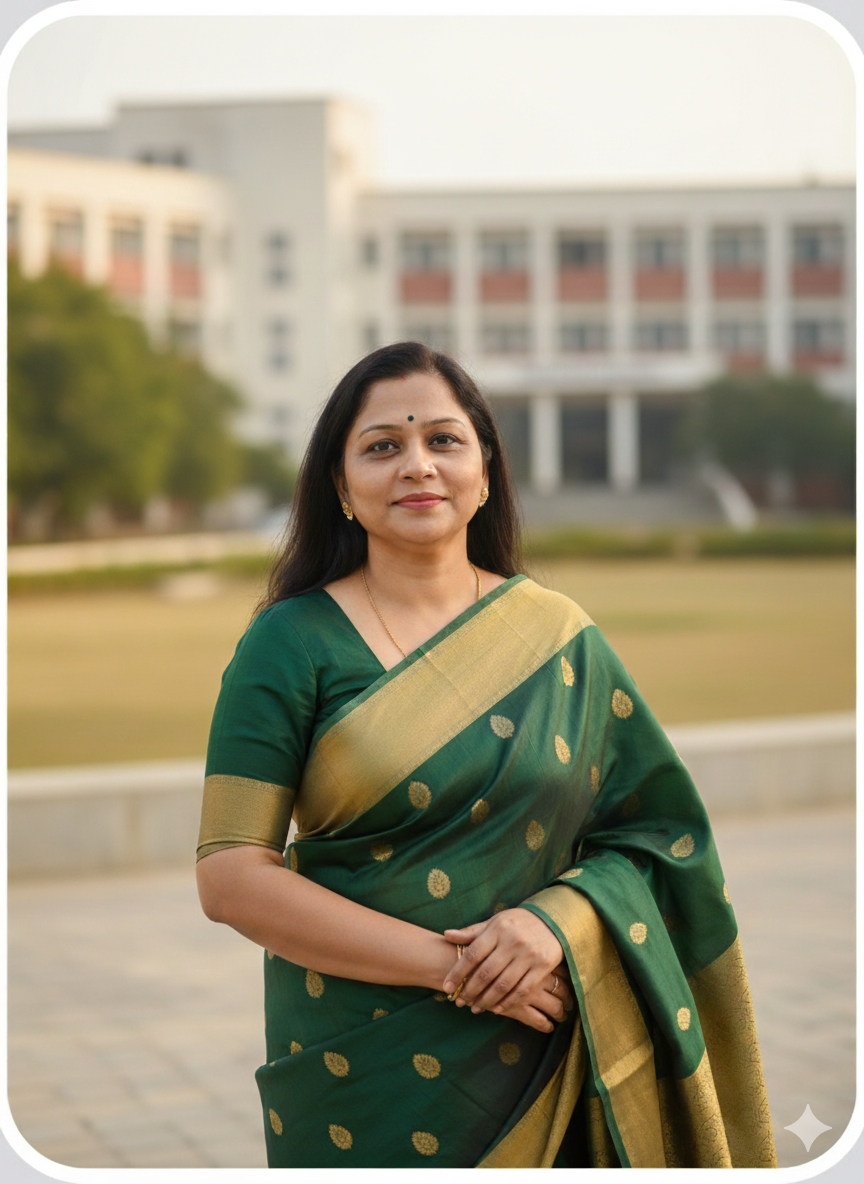
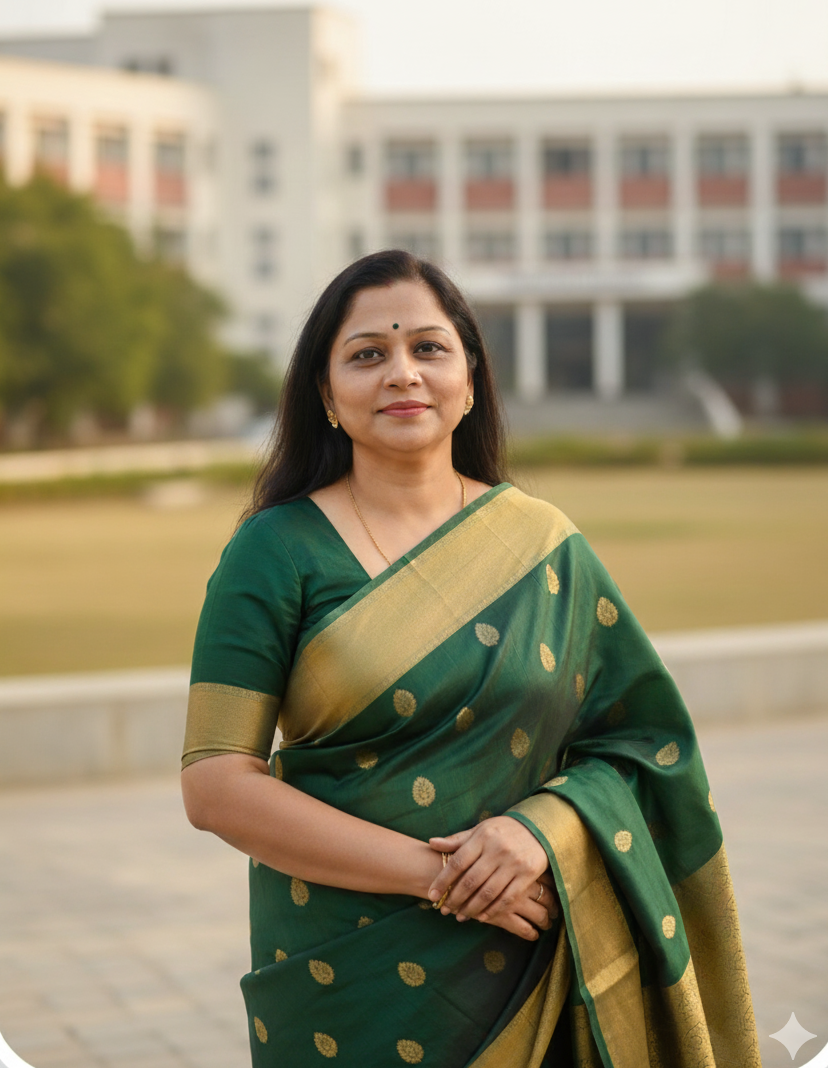
ok bro abhi ek kaam kro Testimonains ke contains ka text "Poppins" kr do

diff --git a/src/app/globals.css b/src/app/globals.css
@@ -1216,7 +1216,7 @@ li a:hover {
   padding-bottom: 1rem;
   text-align: left;
   max-width: 100%;
-  overflow-x: hidden;
+  overflow-x: visible;
 }
 
 .testimonial-name {
@@ -1224,24 +1224,27 @@ li a:hover {
   line-height: 2rem;
   font-weight: 700;
   color: var(--text-primary);
+  font-family: 'Poppins', sans-serif;
 }
 
 .testimonial-designation {
   font-size: 0.875rem;
   line-height: 1.25rem;
   color: var(--text-muted);
+  font-family: 'Poppins', sans-serif;
 }
 
 
 .testimonial-quote {
-  margin-top: 2rem;
-  font-size: 1.125rem;
-  line-height: 1.75rem;
-  color: var(--text-muted);
-  max-width: 100%;
-  white-space: pre-wrap;
-  word-wrap: break-word;
-}
+    margin-top: 2rem;
+    font-size: 1rem;
+    line-height: 1.75rem;
+    color: var(--text-muted);
+    max-width: 100%;
+    white-space: pre-wrap;
+    word-wrap: break-word;
+    font-family: 'Poppins', sans-serif;
+  }
 
 .testimonial-nav-buttons {
   display: flex;
@@ -1453,6 +1456,7 @@ li a:hover {
     visibility: visible;
 }
     
+
 
 
 
